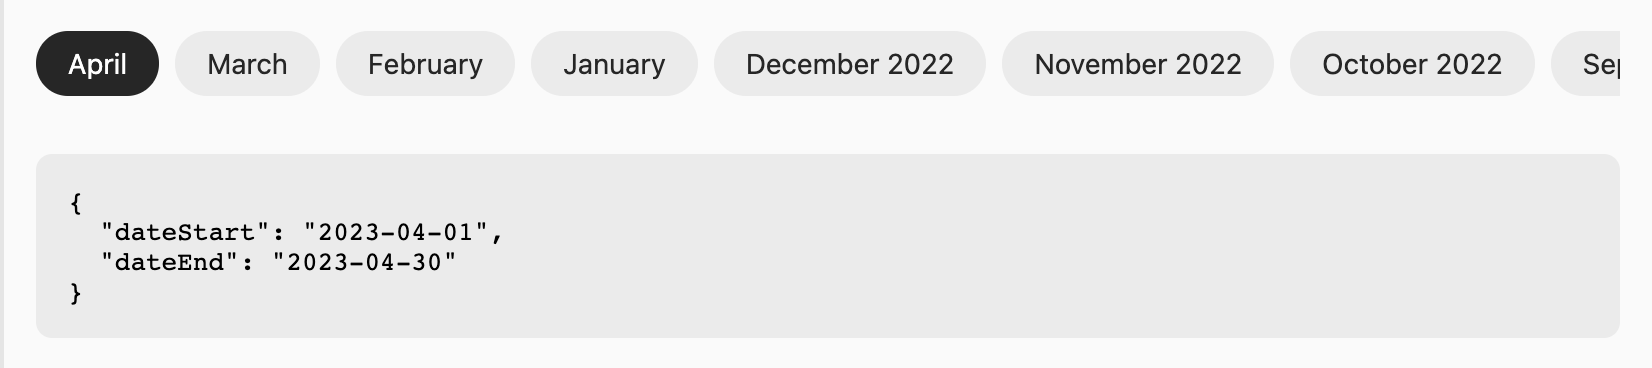
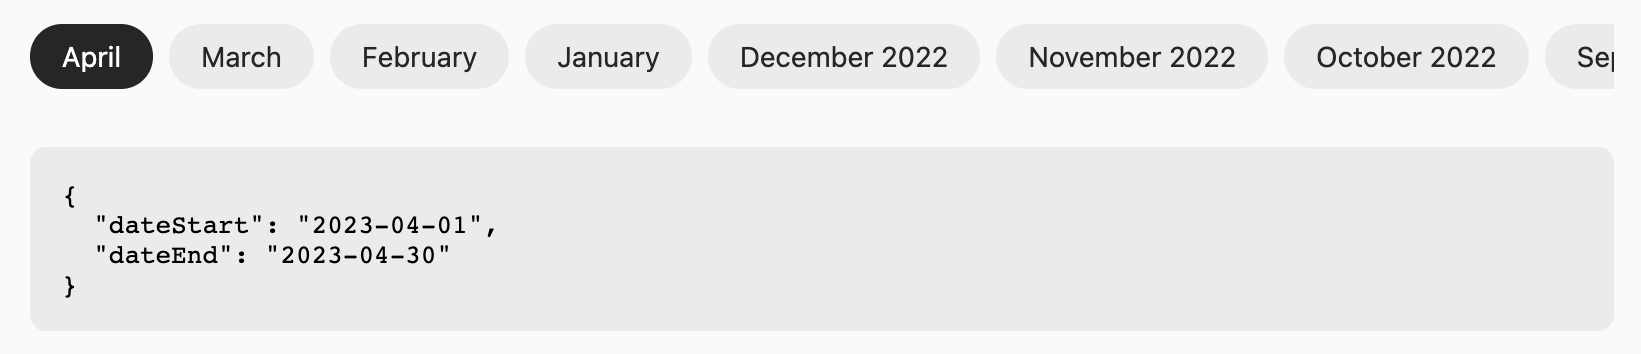
Updated readme and screenshot

diff --git a/README.md b/README.md
@@ -12,11 +12,8 @@
 ![Screenshot](https://github.com/storageddd/vue-date-pills/raw/master/public/screenshot.png "Screenshot")
 
 ## Description
-Some mobile interfaces includes choice month intervals for grab related data. Also it based on some dates range.
+Some mobile interfaces includes choice month intervals for grab related data. Also it based on dates range.
 Vue data pills created for solve this issue and makes it easy.
-
-## Demo
-https://storageddd.github.io/vue-date-pills/
 
 ## Features
 
@@ -30,7 +27,11 @@ https://storageddd.github.io/vue-date-pills/
 - SSR support
 - Included type definitions
 
+## Demo
+https://storageddd.github.io/vue-date-pills/
+
 ## Install
+Note: package based and depends on Vue 3 and DayJS libraries and its excludes from build by vite. You must install in manually.
 
 ```shell
 yarn add vue-date-pills
@@ -59,14 +60,11 @@ app.component('VueDatePills', VueDatePills);
 
 ```vue
 <script>
-    import VueDatePills from 'vue-date-pills';
-    import 'vue-date-pills/dist/styles.css';
+  import VueDatePills from 'vue-date-pills';
+  import 'vue-date-pills/dist/styles.css';
     
-    export default {
-        components: { VueDatePills }
-    }
+  export default {
+    components: { VueDatePills }
+  }
 </script>
 ```
-
-### Dependencies
-
